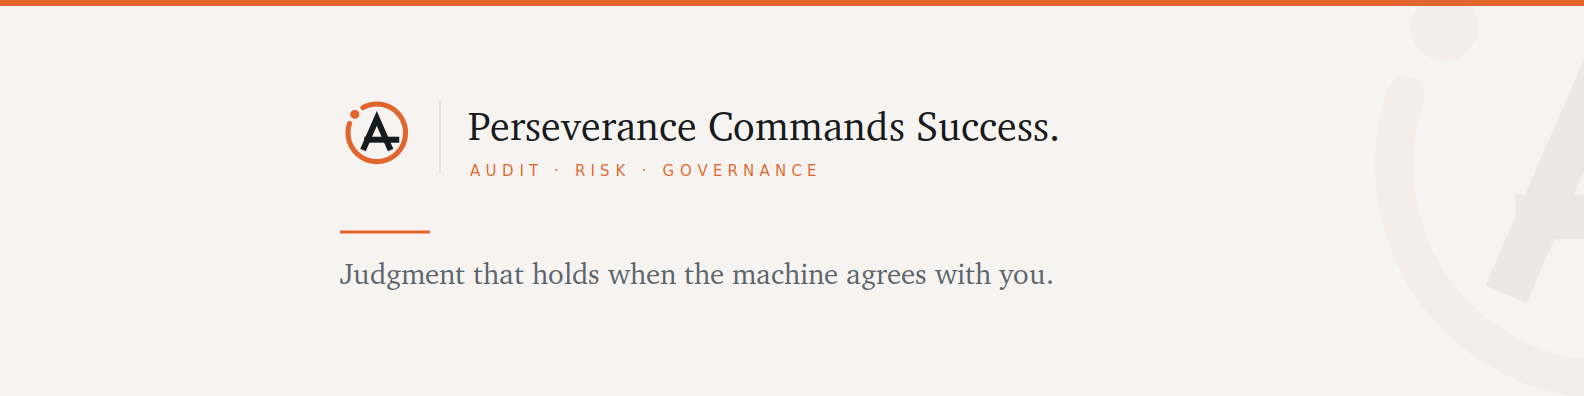
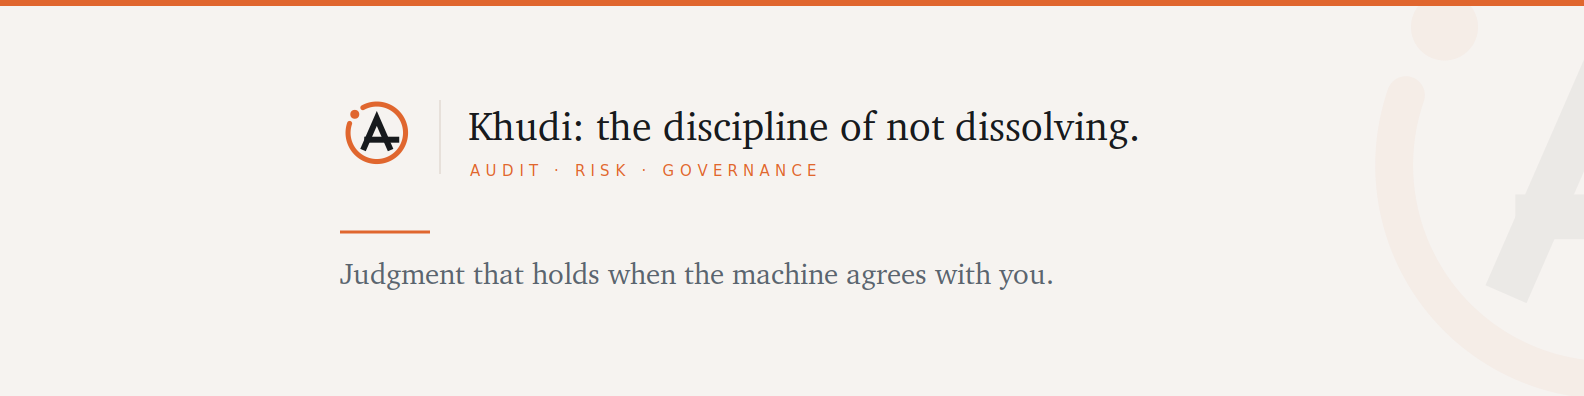
Replace the LinkedIn cover motto with Khudi; feature Mizan
Swapped "Perseverance Commands Success" for "Khudi: the discipline of
not dissolving" on the cover banner and in the About/closing tagline —
his call, moving the identity toward the Iqbal/khudi thread that's
already the centerpiece of the site's ethics section, away from the
Aitchison College motto.

Added a short khudi paragraph to the About copy (trimmed elsewhere to
stay under LinkedIn's 2,600-char cap) and added Mizan as a Featured
link, so the self-audit instrument he built is actually surfaced to
recruiters rather than just linked from the homepage.

Synced the same changes into the Notion LinkedIn Deployment page,
which mirrors this file by its own stated rule.

Changed region(s): [[0.2784, 0.2727, 0.7115, 0.3636]]

diff --git a/linkedin.html b/linkedin.html
@@ -116,7 +116,7 @@
     <h2>1. Cover image</h2>
     <p class="hint">1584 × 396. Laid out so nothing important sits under your profile
     photo or inside the crop LinkedIn takes on mobile.</p>
-    <img class="cover-shot" src="assets/brand/linkedin/cover-dark.png" alt="LinkedIn cover: Perseverance Commands Success. Audit, Risk, Governance. Judgment that holds when the machine agrees with you." />
+    <img class="cover-shot" src="assets/brand/linkedin/cover-dark.png" alt="LinkedIn cover: Khudi, the discipline of not dissolving. Audit, Risk, Governance. Judgment that holds when the machine agrees with you." />
     <a class="dl" href="assets/brand/linkedin/cover-dark.png" download>Download dark ↓</a>
     <a class="dl" href="assets/brand/linkedin/cover-light.png" download>Download light ↓</a>
   </div>
@@ -156,7 +156,7 @@
 I have spent twenty years on that problem from three seats: as a state bank examiner at the Florida Office of Financial Regulation, as an internal audit leader inside Citi and JPMorgan Chase, and now as a doctoral researcher studying what happens to professional judgment when the analysis arrives already formed.
 
 WHAT I DO
-I help regulated organizations adopt AI without losing the ability to challenge it. In practice that means AI governance frameworks mapped to the NIST AI RMF and federal model risk guidance (SR 26-2, which superseded SR 11-7 in April 2026), model inventory and validation, human-in-the-loop control design, third-party AI risk, and the documentation trail an examiner will actually ask for.
+I help regulated organizations adopt AI without losing the ability to challenge it. In practice that means AI governance frameworks mapped to the NIST AI RMF and federal model risk guidance (SR 26-2), model inventory and validation, human-in-the-loop control design, third-party AI risk, and the documentation trail an examiner will actually ask for.
 
 WHAT I HAVE ACTUALLY DONE
 - Built and shipped a retrieval-augmented generation (RAG) assistant into a live audit function at Citi, cutting review cycle time roughly 35%
@@ -164,7 +164,7 @@ WHAT I HAVE ACTUALLY DONE
 - Led consent-order remediation and issue-closure packages submitted to quality assurance review and external regulators
 - Ran the Resolution and Recovery Planning program at JPMorgan Chase, coordinating 50+ stakeholders on Federal Reserve and FDIC submissions
 - Owned Basel III RWA and capital adequacy reporting, identifying $180M in capital optimization
-- Examined banks for safety and soundness at the Florida Office of Financial Regulation, sharing sensitive examination information with the FDIC and the Federal Reserve Bank of Atlanta
+- Examined banks for safety and soundness at the Florida Office of Financial Regulation
 
 THE RESEARCH
 My doctoral work at Florida International University asks a narrow and uncomfortable question: when an AI system produces the analysis, does the reviewer still review it? Systems tuned on human approval tend to affirm the position you already hold, and they are most agreeable exactly where a reviewer most needs pushback. That is a control problem before it is a technology problem.
@@ -172,10 +172,12 @@ My doctoral work at Florida International University asks a narrow and uncomfort
 WHY IT MATTERS TO ME
 The auditor everyone dreads teaches nobody. You cannot examine your way out of deference, because nobody documents the moment they stopped thinking. So I use the audit discipline to teach judgment rather than police it: governance that produces better thinking, not just cleaner files.
 
+I call that discipline khudi, after Iqbal: selfhood held, not dissolved into consensus. I built an instrument that measures it, Mīzān — linked below.
+
 WHAT I AM LOOKING FOR
 Director and Head-of level roles in AI governance, model risk, and internal audit. Also open to advisory engagements, guest lecturing, and research collaboration.
 
-Perseverance Commands Success.
+Khudi: the discipline of not dissolving.
 
 malikai-786.github.io</pre>
     </div>
@@ -307,13 +309,15 @@ Supported Treasury and CIO capital controls and reconciliation reporting. Built 
   <div class="wrap">
     <h2>6. Featured &amp; Open to work</h2>
     <p class="hint">Featured sits high on the profile and is the only place a recruiter
-    can see proof rather than claims. Add these four links.</p>
+    can see proof rather than claims. Add these five links, in order — Featured renders
+    left to right and the first two carry most of the clicks.</p>
     <div class="block">
       <div class="block-head">
         <span class="block-label">Featured links</span>
         <button class="copy">Copy</button>
       </div>
       <pre class="body">https://malikai-786.github.io/  (Research, advisory practice, and the story)
+https://malikai-786.github.io/mizan/  (Mīzān — the self-audit instrument, after Iqbal's khudi)
 https://proofoverpromise.substack.com/subscribe  (Proof Over Promise, the newsletter)
 https://malikai-786.github.io/#ethics  (Why the audit discipline should teach, not police)
 https://github.com/MalikAI-786  (Public work)

diff --git a/assets/brand/make_linkedin.py b/assets/brand/make_linkedin.py
@@ -36,7 +36,7 @@ THEMES = {
                   rule="#E2DAD3", meta="#8A929B"),
 }
 
-MOTTO = "Perseverance Commands Success."
+MOTTO = "Khudi: the discipline of not dissolving."
 VISION = "Judgment that holds when the machine agrees with you."
 DESCRIPTOR = "AUDIT · RISK · GOVERNANCE"
 
